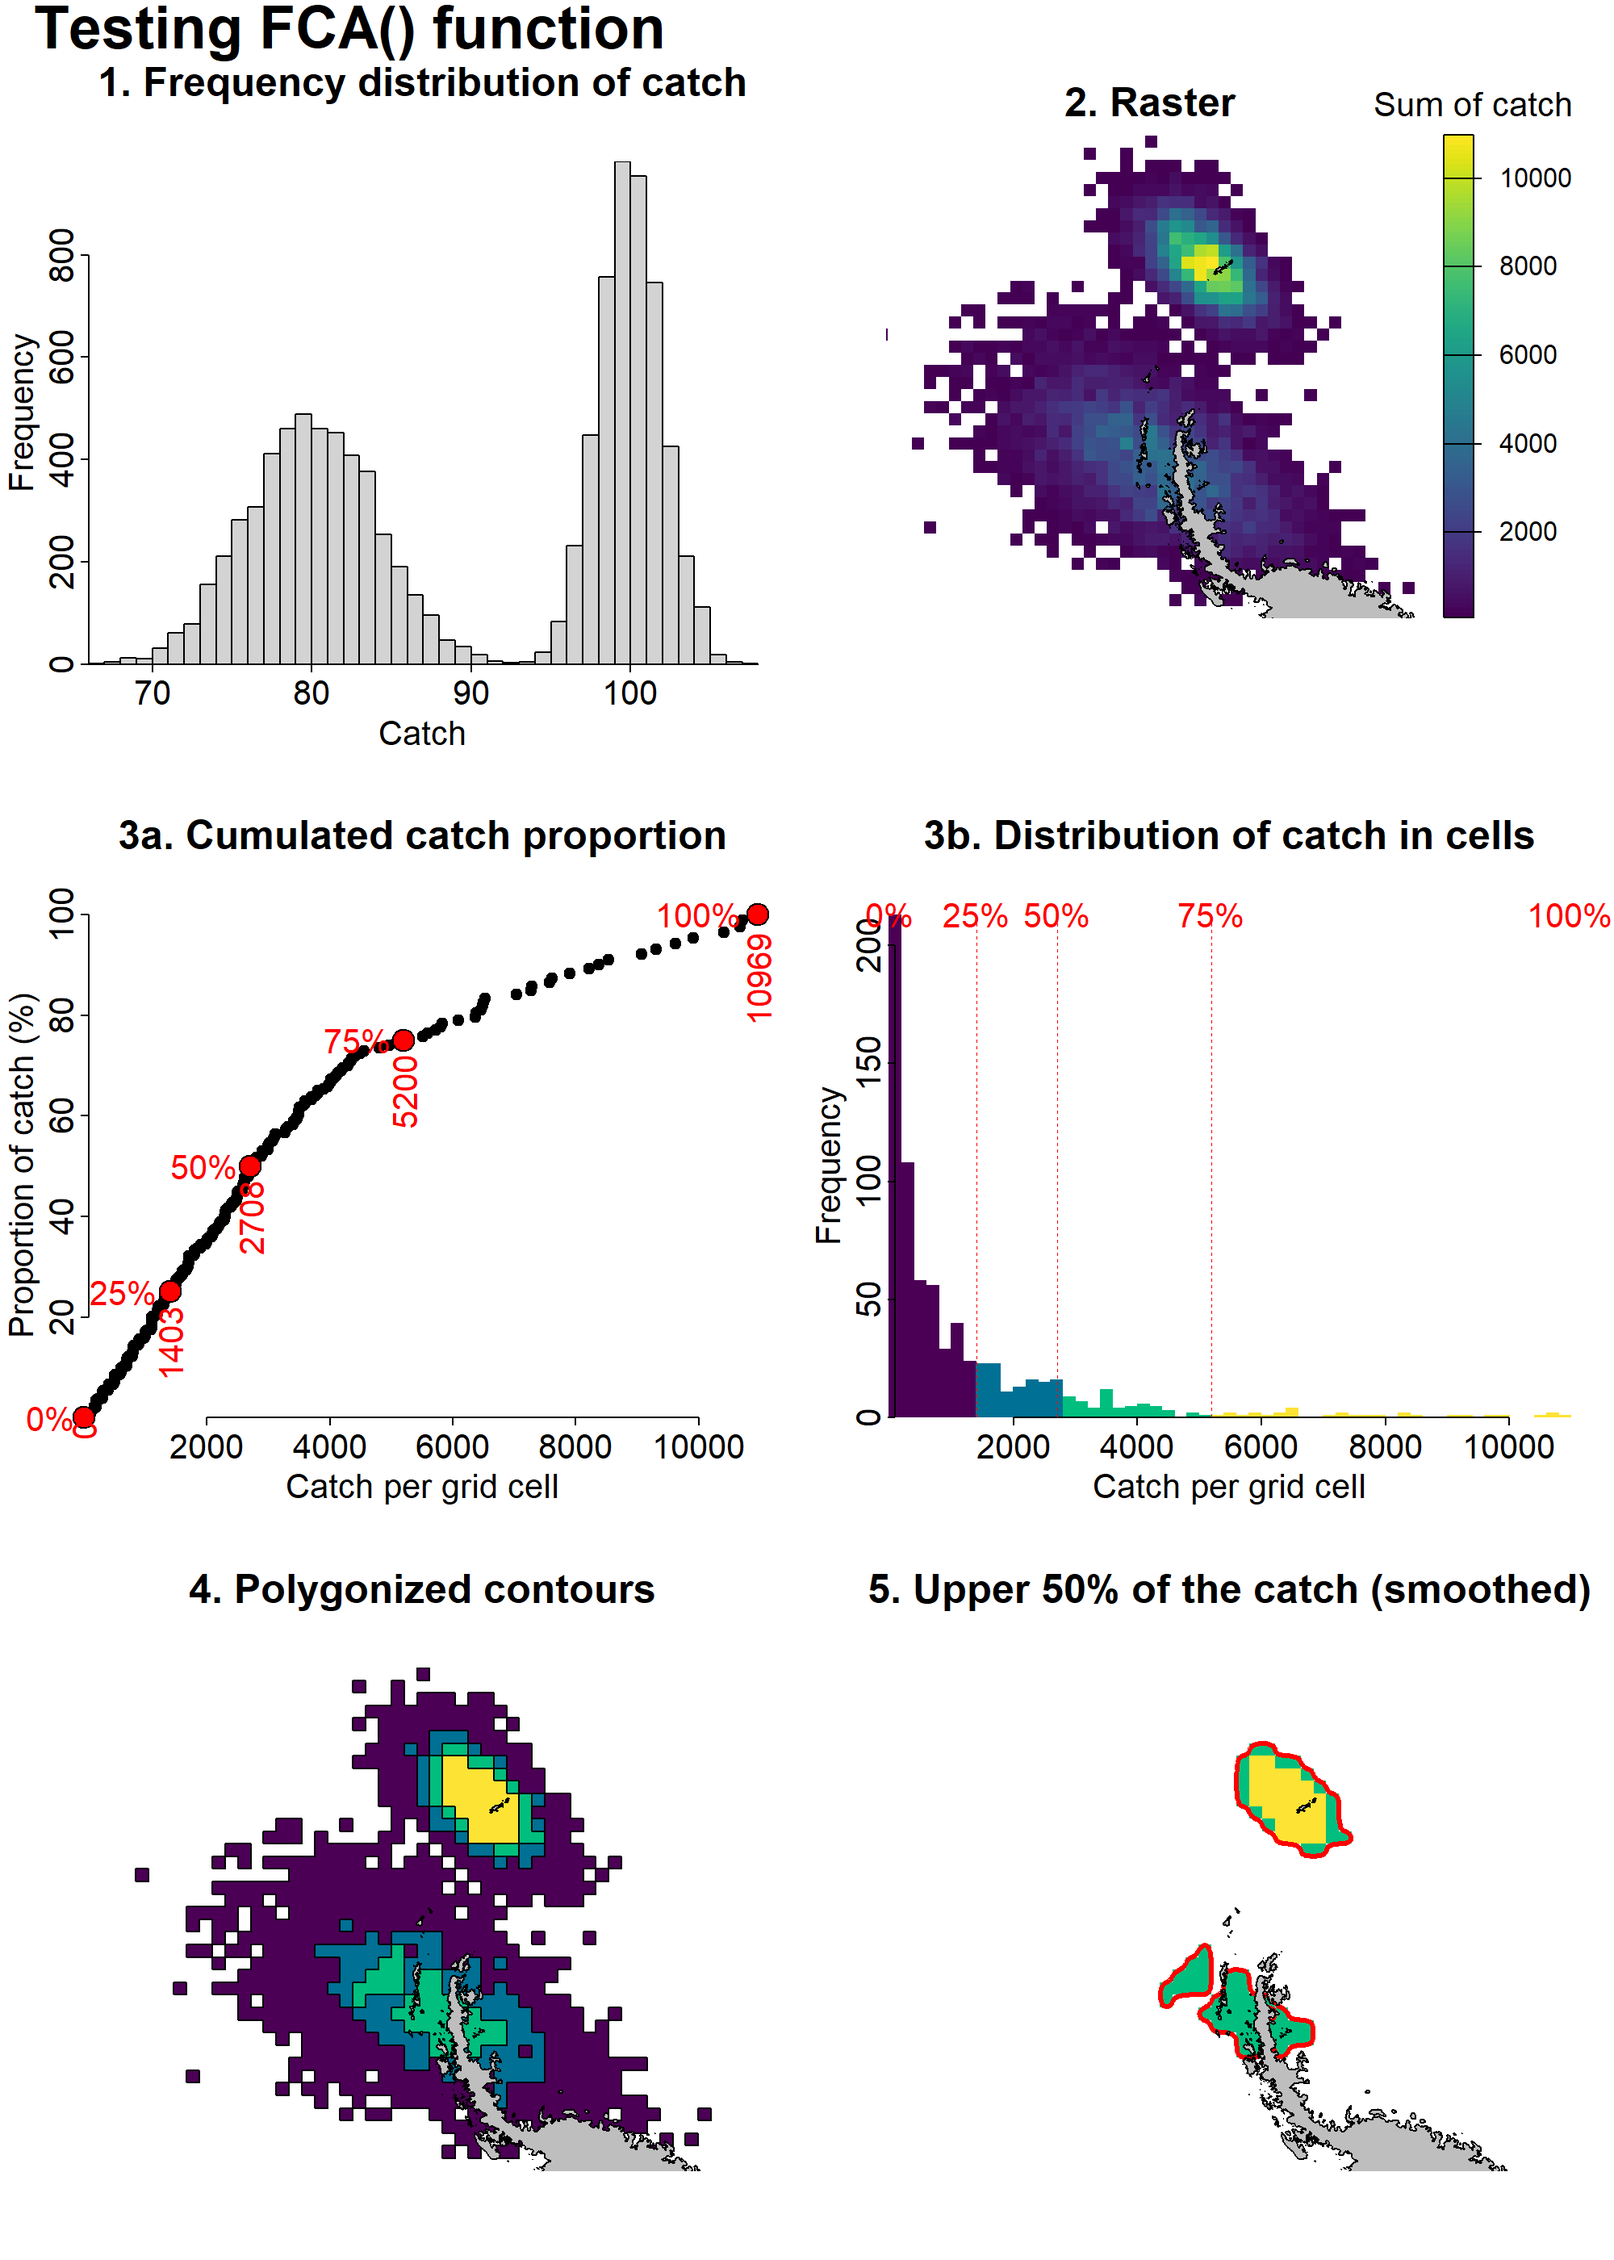
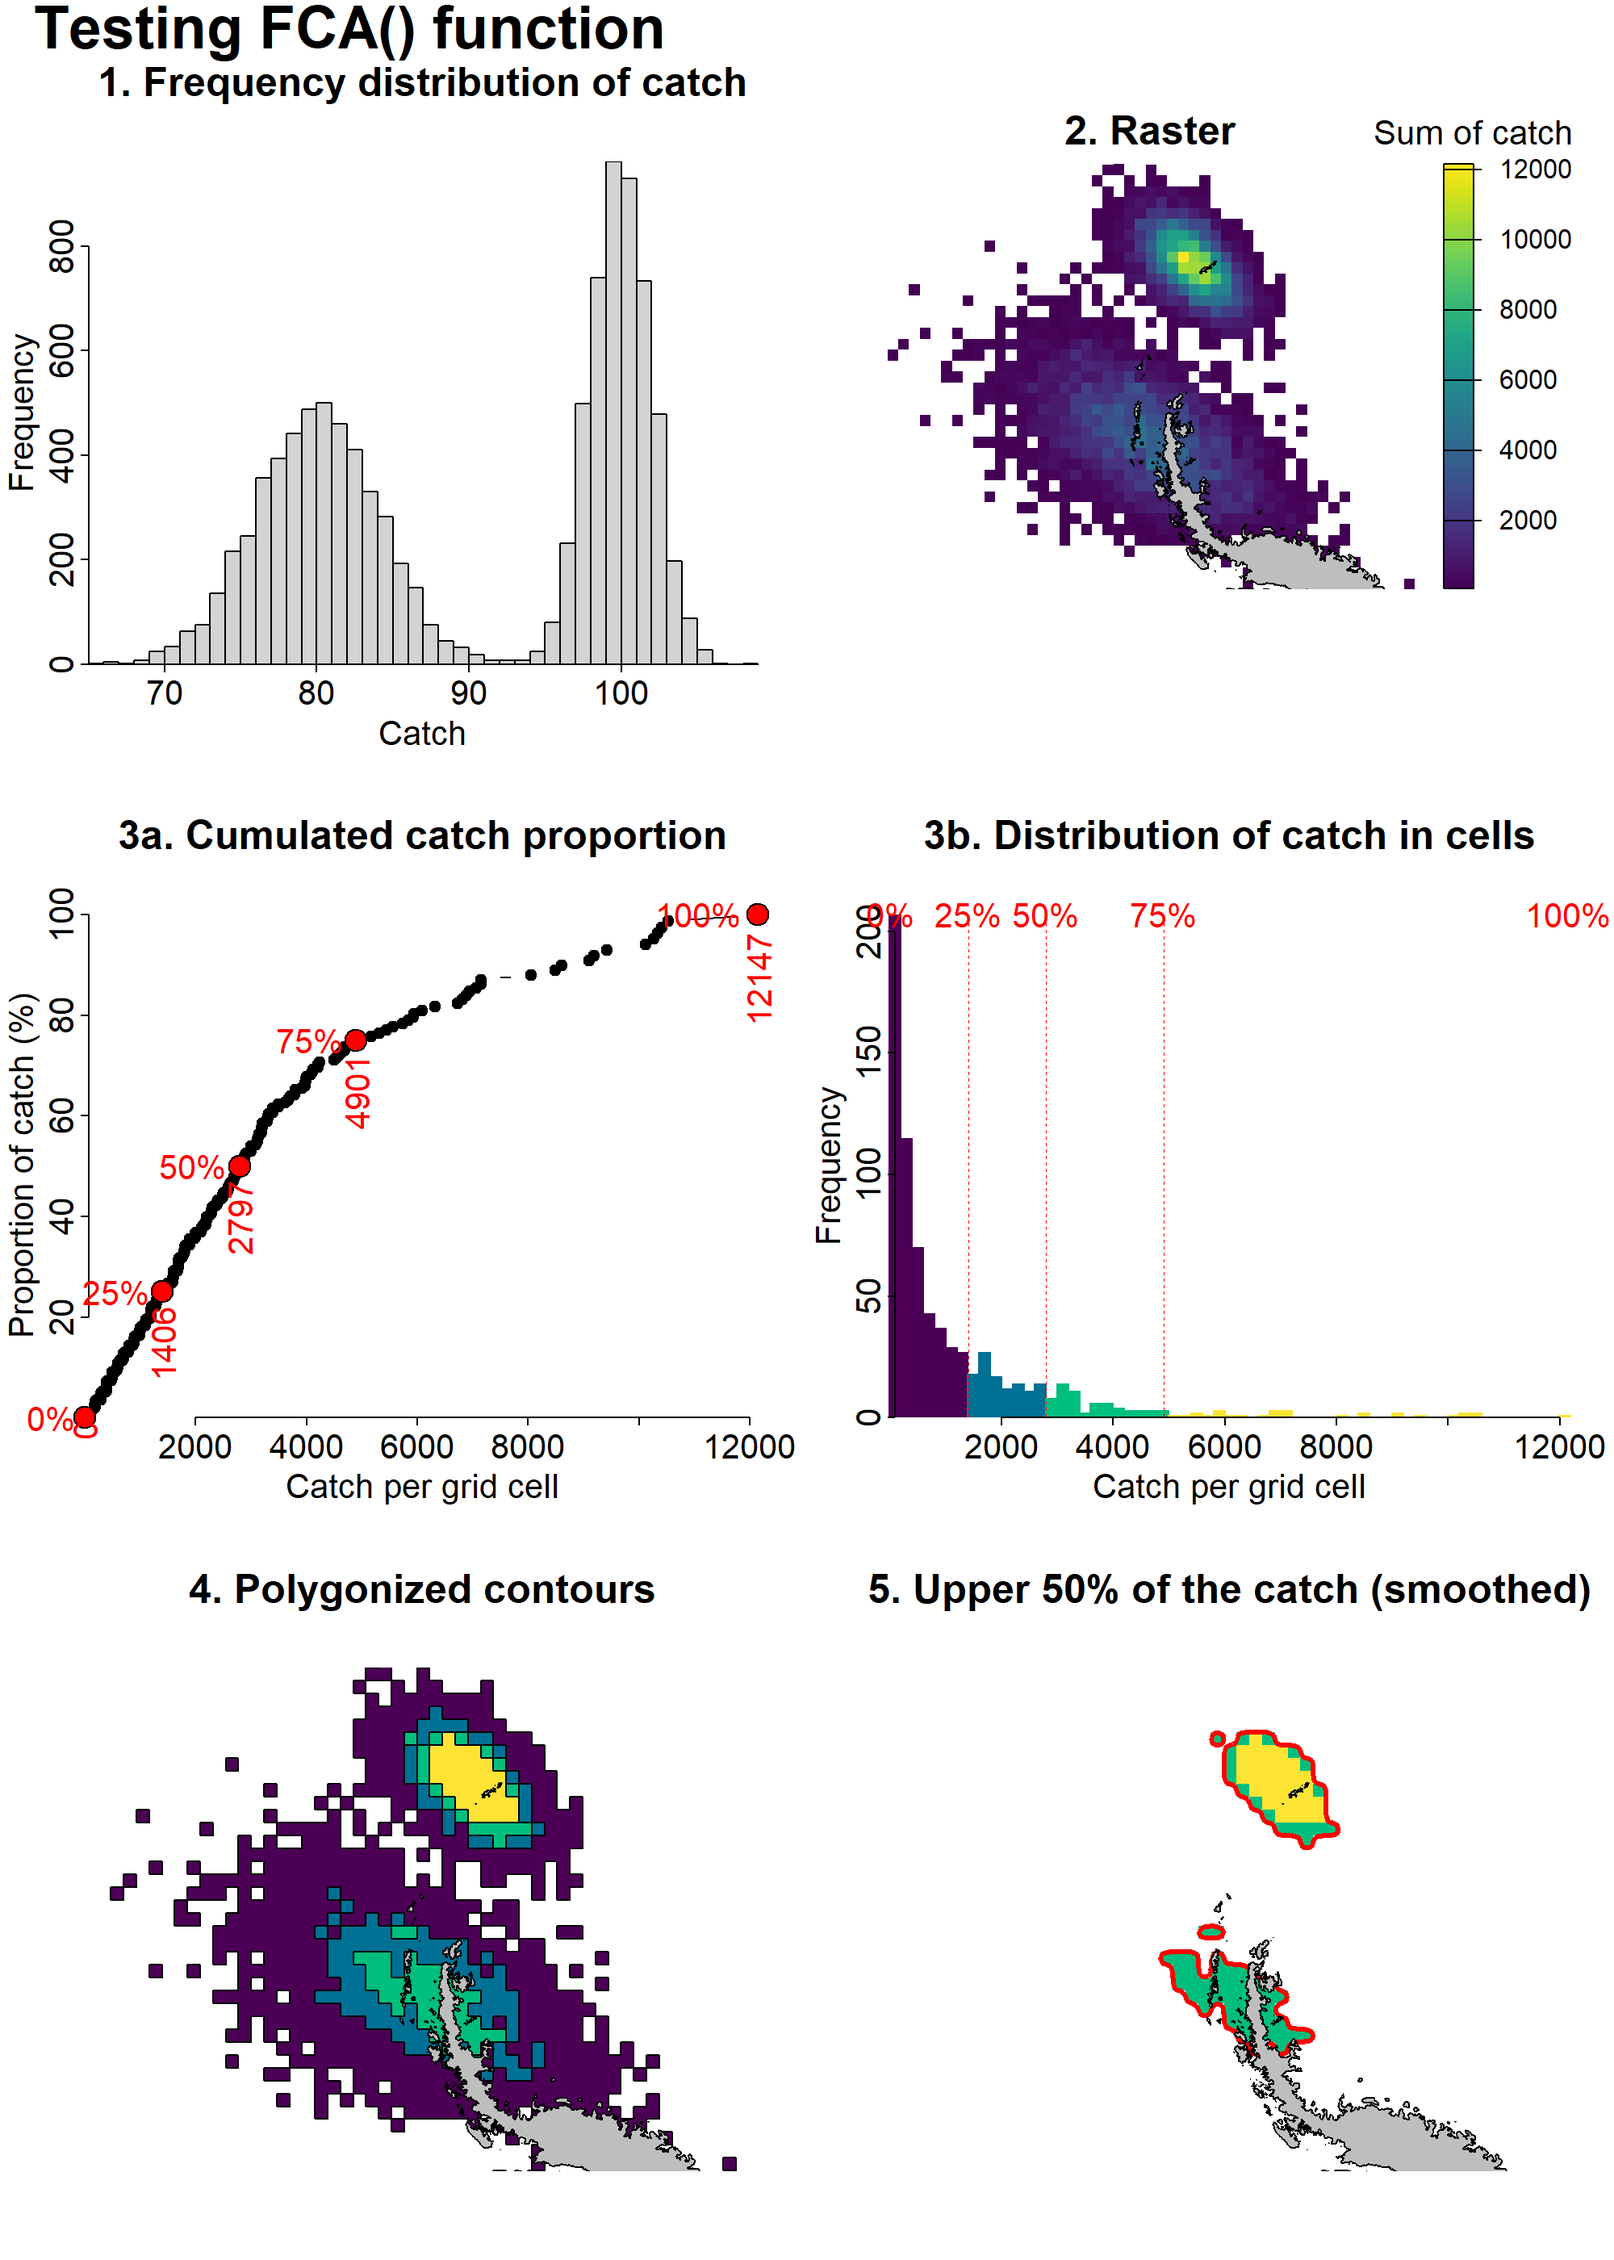
Update

diff --git a/Documentation/Tools.md b/Documentation/Tools.md
@@ -43,13 +43,13 @@ Rev. 2](https://meetings.ccamlr.org/en/sc-camlr-44/bg/36-rev-2), the
 Fishery Concentration Index was designed to visualise temporal trends in
 spatial concentration of catches. It is calculated as the sum of catches
 divided by the area of the fished footprint (*e.g.*, in tonnes per
-km$^2$), within a defined period and area. To compute the area of the
+square km), within a defined period and area. To compute the area of the
 fished footprint, a fished path is considered as a straight line between
 the start and end locations of the fishing event, and is buffered by a
 chosen distance (typically 10s of meters) to represent the area that was
 fished along that path. This buffer distance can be adjusted depending
 on the fishing gear used. Depending on the fishery, fished footprints
-may be merged or not, prior to the calculation of the index
+may be merged or not, prior to the calculation of the Index
 (sum(catch)/sum(area)). For instance, because the krill fishery is a
 pelagic fishery with water and krill in motion, the trawl paths are
 treated as non-overlapping and footprints are not merged.
@@ -77,12 +77,12 @@ Input=data.frame(Lat_Start=rnorm(n=N,mean=-62,sd=1),
 #Run FCI() without merging tracks
 FCI_1=FCI(Input)
 FCI_1
-#> [1] 0.1865033
+#> [1] 0.1435278
 
 #Run FCI() with merging tracks
 FCI_2=FCI(Input,MergeB=T)
 FCI_2
-#> [1] 0.1963588
+#> [1] 0.1653729
 ```
 
 #### 1.2. Fishery Concentration Areas
@@ -94,8 +94,8 @@ trends in concentration of catches. In short, catch data are gridded,
 grid cells are ordered by their catch, and their cumulative sum used to
 select cells based on a chosen proportional threshold of total catch.
 For example, those grid cells with the highest catch and corresponding
-to 50% of the total catch can be isolated. These cells are then used to
-build polygons which can be plotted to visualise where this catch was
+to 50% of the total catch can be isolated. These cells are then merged
+to build polygons which can be plotted to visualise where this catch was
 taken from.
 
 The Fishery Concentration Areas workflow was written in an R function

diff --git a/New_README.md b/New_README.md
@@ -92,8 +92,6 @@ here: <https://github.com/ccamlr/data>
 
 This section provides access to several numerical tools that are used by
 the Secretariat when conducting geospatial analyses. Some are in
-development while others have been used for a while, and all can be
-accessed
+development while others have been used for specific purposes, and all
+can be accessed
 [here](https://github.com/ccamlr/geospatial_operations/blob/main/Documentation/Tools.md#tools).
-It is worth noting that other ‘non-GIS’ tools are available in the
-[CCAMLR Science Toolbox](https://ccamlr-science.github.io/Toolbox/)
